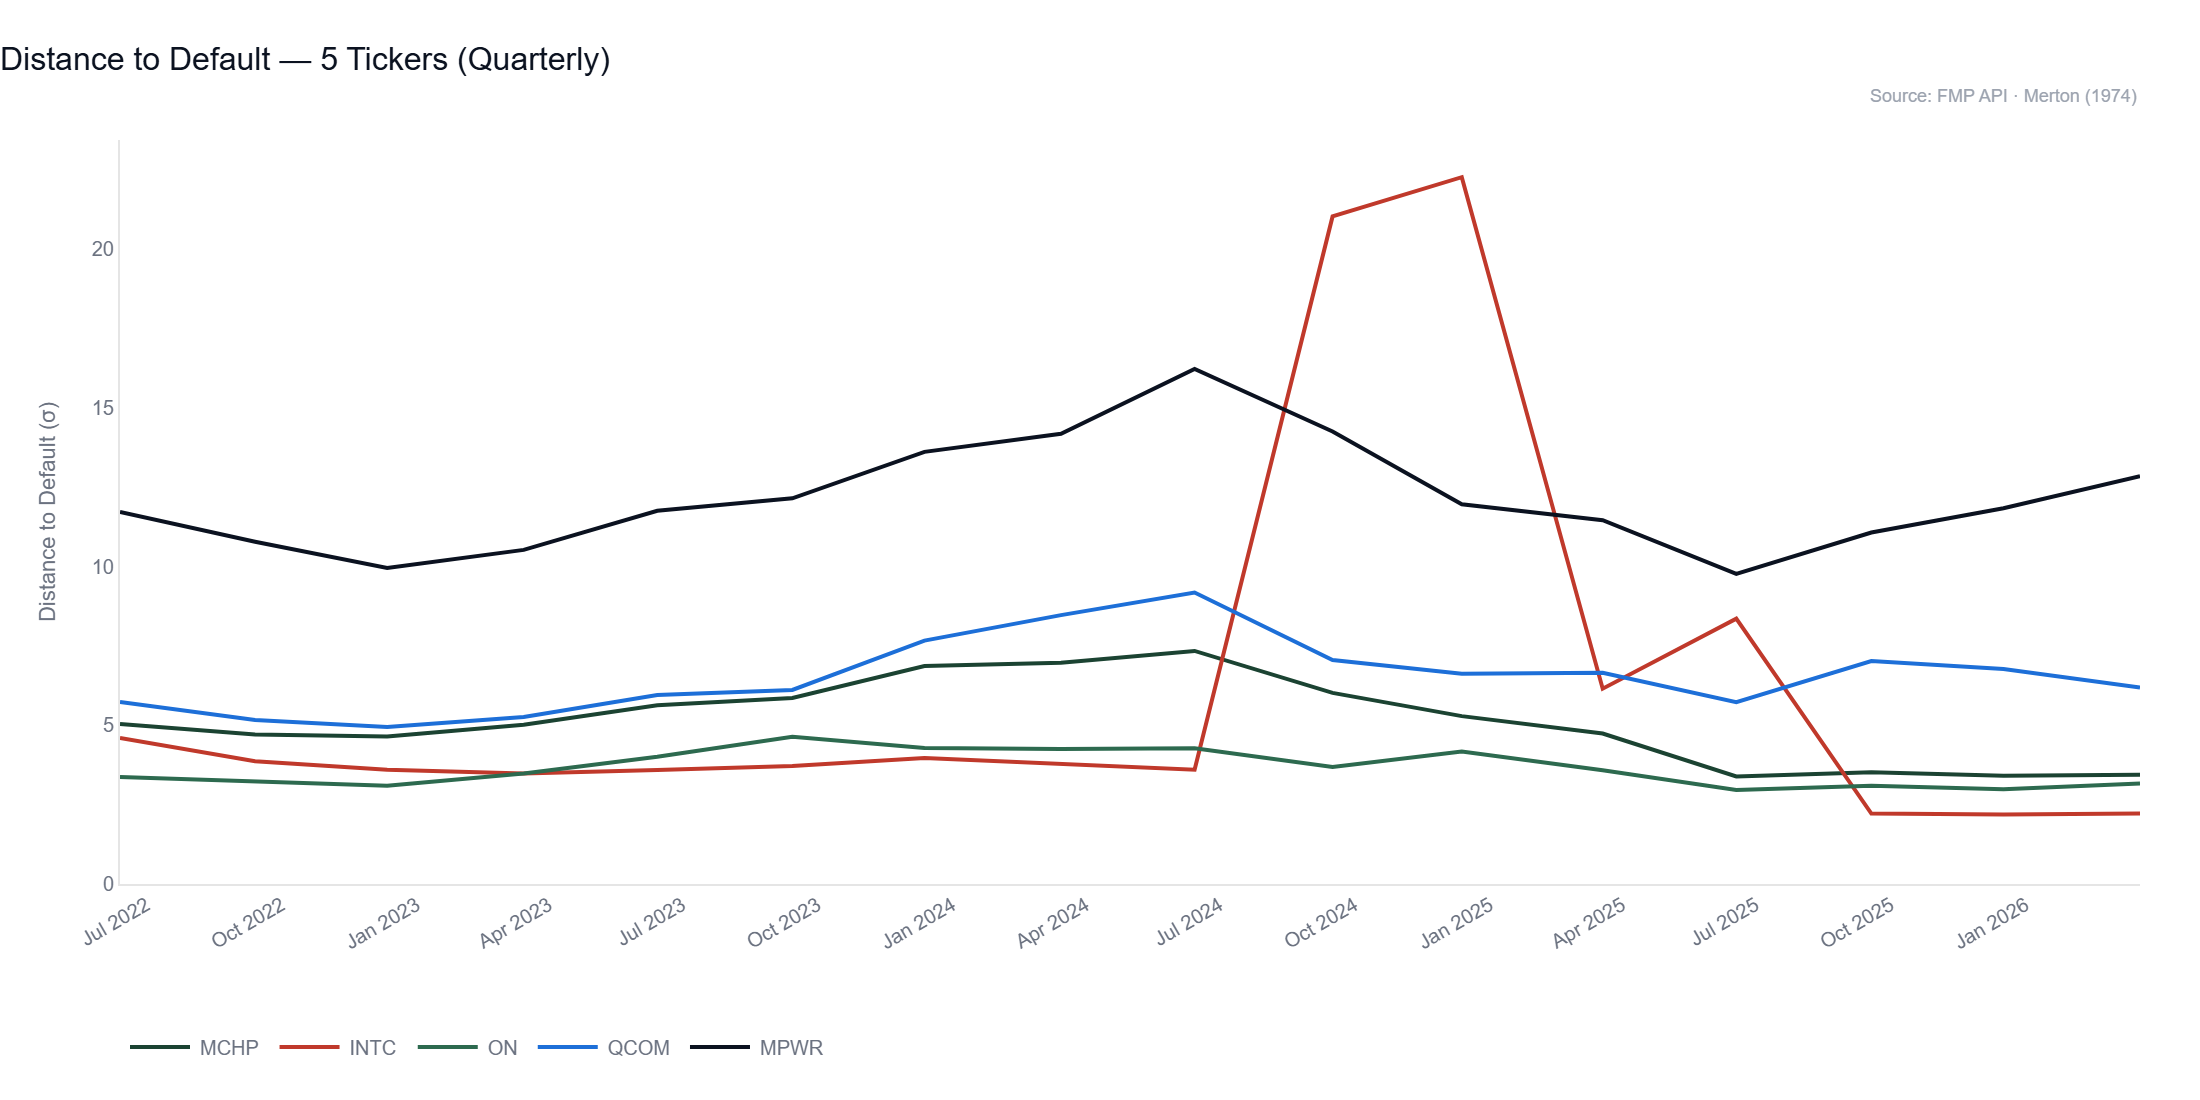
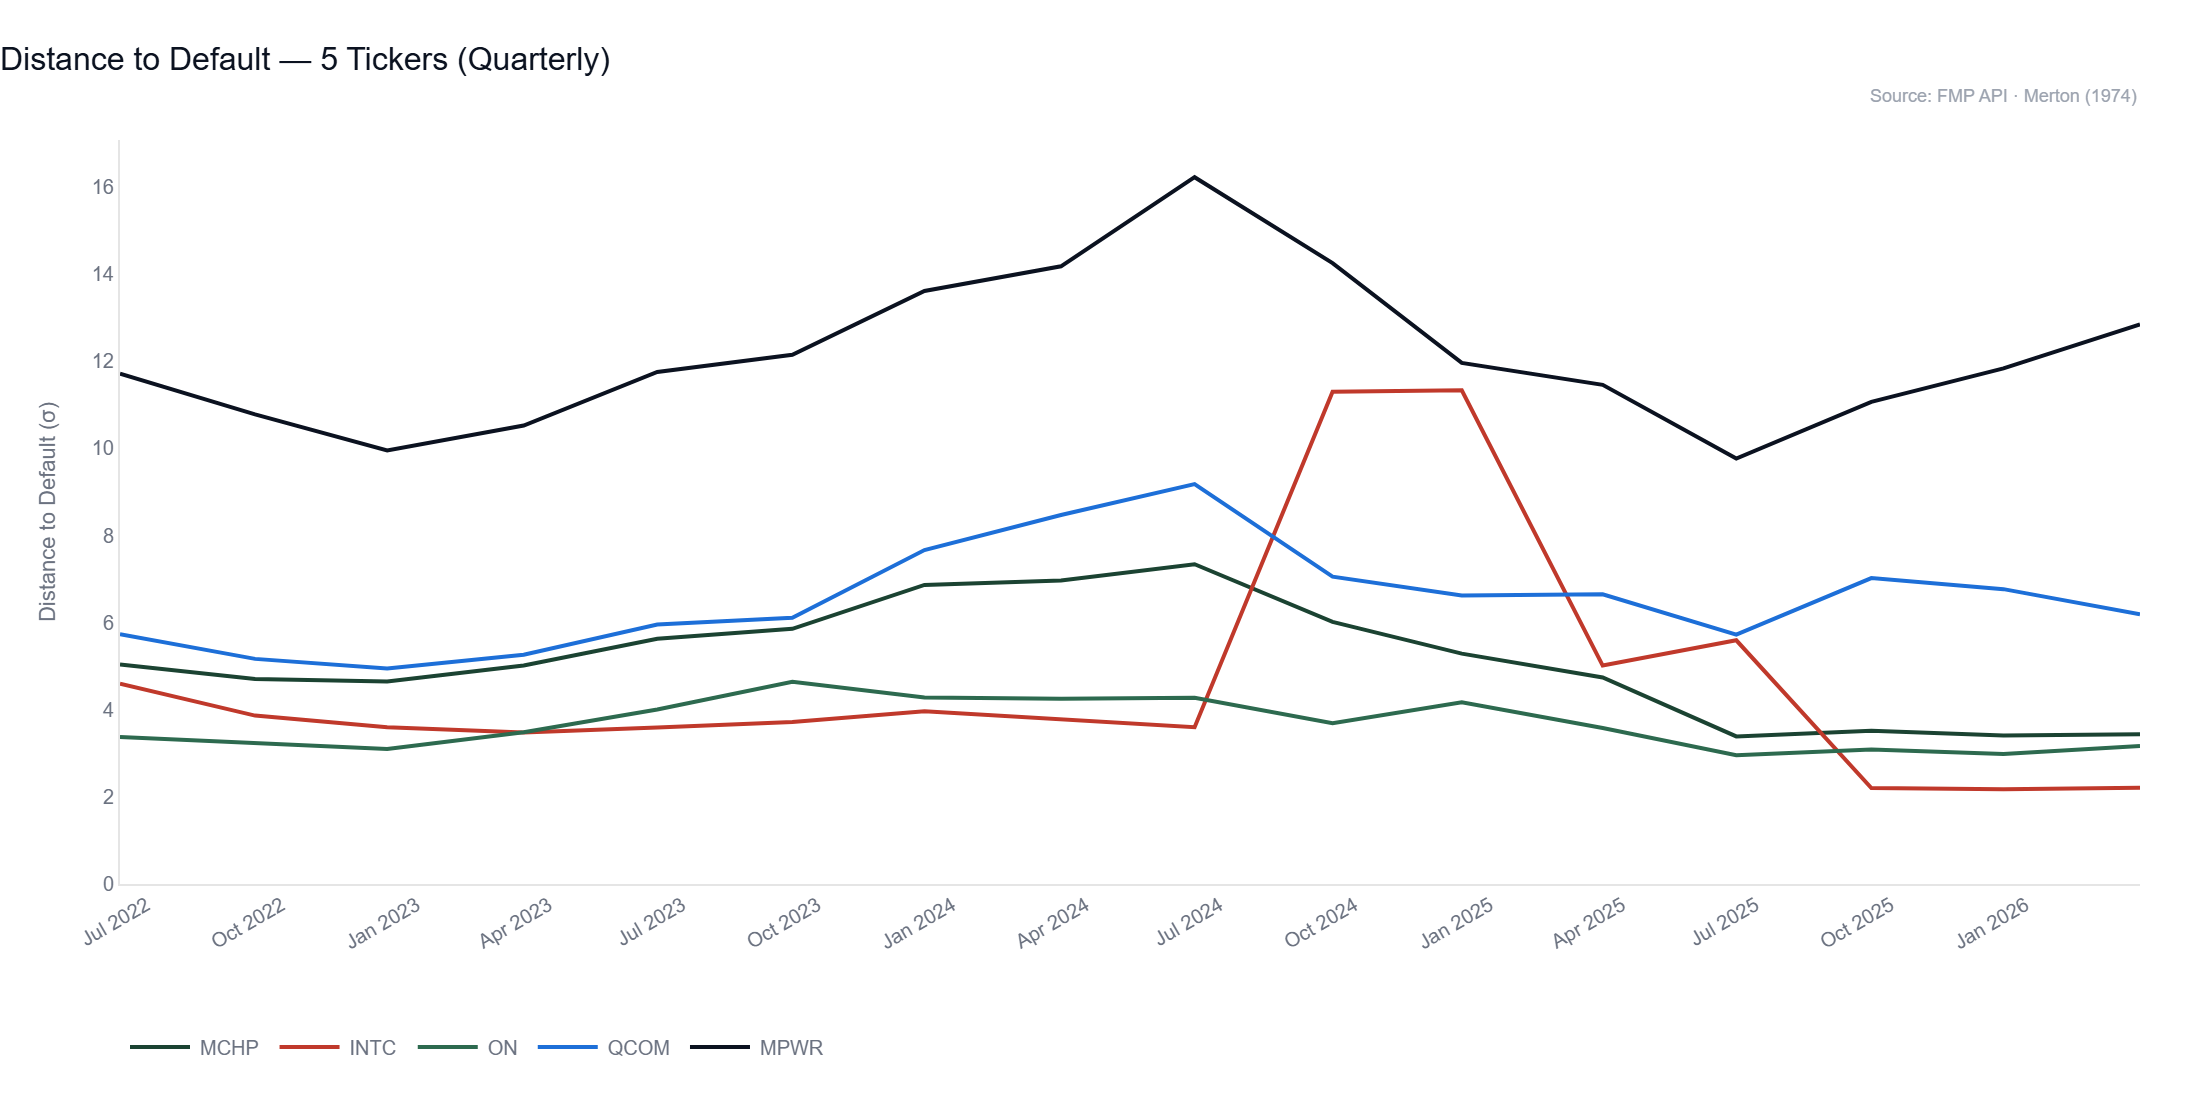
Regenerate two stale README images, and make one of them reproducible
INTC_KMV_Textbook.png had been out of date since 19 June. The script that draws
it wrote only to Outputs/, so the README copy was placed by hand once and never
touched again. It now writes the README copy directly, the way the Monte Carlo
script already did for its dashboard. DD_TimeSeries.png was stale too and is
regenerated.

verify.py gains two checks: every image the README links to exists, and every
image in images/ is written by some script. An image nobody regenerates is a
published figure with no source - the same problem as a hand-typed number.

Rendering was confirmed deterministic first, so a byte difference means the
content really moved. The two images produced by todays refactors - the Monte
Carlo dashboard and the portfolio fan chart - came out byte-identical, so
extracting mcs_core and moving plot_style changed no output.

17 checks pass. 85 tests unchanged.

diff --git a/verify.py b/verify.py
@@ -26,6 +26,7 @@ import os
 import re
 import subprocess
 import sys
+from pathlib import Path
 from typing import Any, Callable, NamedTuple, cast
 
 sys.stdout = io.TextIOWrapper(sys.stdout.buffer, encoding="utf-8", errors="replace")
@@ -220,6 +221,38 @@ def _recomputed_dd(ticker: str) -> float:
 # ----------------------------------------------------------------------------
 # region THE CLAIMS
 # ----------------------------------------------------------------------------
+def _readme_images_exist() -> list[str]:
+    """Every image the README links to, that is actually missing."""
+    text = _readme()
+    missing = []
+    for target in re.findall(r"!\[[^\]]*\]\(([^)]+)\)", text):
+        if target.startswith("http"):
+            continue
+        if not os.path.exists(os.path.join(PROJECT_ROOT, target)):
+            missing.append(target)
+    return missing
+
+
+def _images_without_a_producer() -> list[str]:
+    """
+    Images in images/ that no script writes there.
+
+    INTC_KMV_Textbook.png was copied here by hand and went nearly two months out
+    of date, because the script that draws it wrote only to Outputs/. Nothing
+    noticed. An image nobody regenerates is a published figure with no source.
+    """
+    images_dir = os.path.join(PROJECT_ROOT, "images")
+    if not os.path.isdir(images_dir):
+        return []
+    sources = "\n".join(
+        path.read_text(encoding="utf-8", errors="replace")
+        for path in Path(PROJECT_ROOT).rglob("*.py")
+        if ".ipynb_checkpoints" not in path.parts
+    )
+    return sorted(name for name in os.listdir(images_dir)
+                  if name.endswith(".png") and name not in sources)
+
+
 def _rating_claim(ticker: str) -> Callable[[], str]:
     """Bind one ticker into a checkable claim; a bare lambda with a default
     argument leaves mypy nothing to infer the return type from."""
@@ -266,6 +299,20 @@ def build_claims() -> list[Claim]:
             document=README,
             expected=True,
             compute=_dcf_collapses_to_perpetuity,
+        ),
+        Claim(
+            source="Repository itself",
+            claim="every image the README links to exists",
+            document=README,
+            expected=[],
+            compute=_readme_images_exist,
+        ),
+        Claim(
+            source="Repository itself",
+            claim="every image in images/ is written by a script",
+            document="images/",
+            expected=[],
+            compute=_images_without_a_producer,
         ),
     ]
 

diff --git a/Merton/KMV_Textbook_Chart.py b/Merton/KMV_Textbook_Chart.py
@@ -320,6 +320,12 @@ def create_textbook_chart(tkr, params):
 # ----------------------------------------------------------------------------
 # region BLOCK 3 - PNG EXPORT
 # ----------------------------------------------------------------------------
+# The README shows INTC's chart. It used to be copied here by hand, and went
+# nearly two months out of date because nothing regenerated it. Written directly
+# now, the same way Monte_Carlo_Sim.py writes its dashboard.
+README_TICKER = "INTC"
+IMAGES_DIR    = os.path.join(PROJECT_ROOT, "images")
+
 saved_files = []
 for tkr in TICKER_LIST:
     print(f"\n  Creating chart: {tkr} ...", end=" ", flush=True)
@@ -329,6 +335,11 @@ for tkr in TICKER_LIST:
     png_path = os.path.join(tkr_output, f"{tkr}_KMV_Textbook.png")
     fig.write_image(png_path, width=1100, height=650, scale=2)
     saved_files.append(png_path)
+    if tkr == README_TICKER:
+        os.makedirs(IMAGES_DIR, exist_ok=True)
+        readme_path = os.path.join(IMAGES_DIR, f"{tkr}_KMV_Textbook.png")
+        fig.write_image(readme_path, width=1100, height=650, scale=2)
+        saved_files.append(readme_path)
     print("saved.")
 
 print(f"\n=== PNG Export ===")
